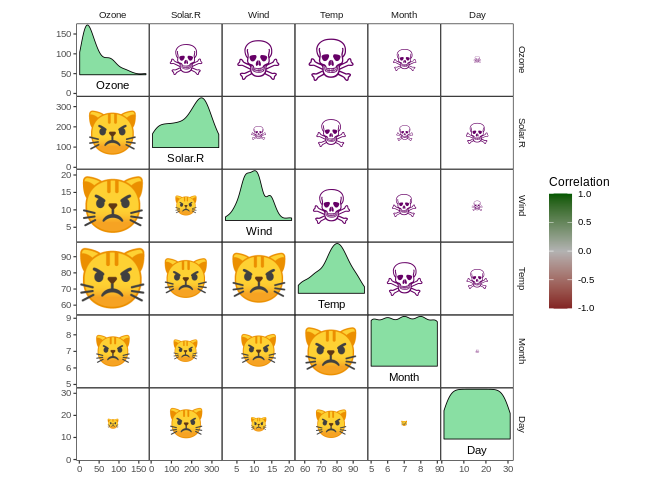
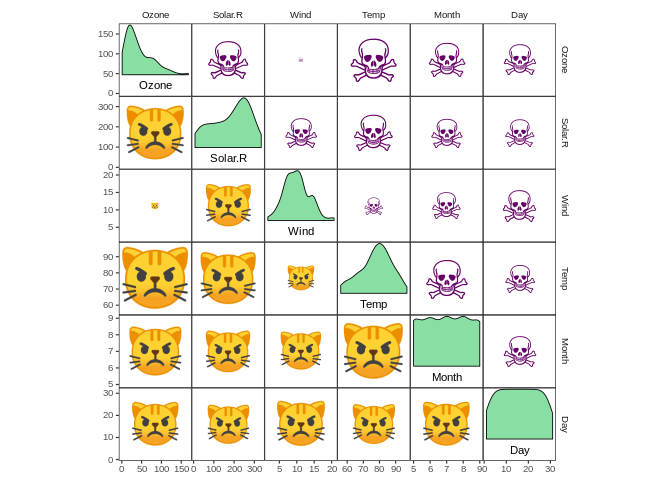
Update README file (remove color bar for cat skull plot)

diff --git a/README.md b/README.md
@@ -165,8 +165,6 @@ ggcorrm(data1,
   scale_color_corr(aesthetics = c("fill", "color"))
 ```
 
-    ## Joining, by = "pos"
-
     ## `geom_smooth()` using formula 'y ~ x'
 
 ![](README_files/figure-gfm/unnamed-chunk-8-1.png)<!-- -->
@@ -195,13 +193,13 @@ ggcorrm(rescale = "by_sd") +
 
 With `lotri_/utri_heatpoint()`, you can scale the diameter of any
 character you want by correlation strength. And yes, you’re right, this
-means you can display correlation strength with purple skulls and angry
-cat faces (at least if your graphical device allows Unicode characters,
-which might or might not work on Windows):
+means you can display correlation strength by the size of purple skulls
+and angry cat faces (at least if your graphical device allows Unicode
+characters, which might or might not work on Windows):
 
 ``` r
 airquality %>% 
-ggcorrm(aes(col = .corr)) +
+ggcorrm() +
   lotri_heatpoint(pch = "\U1F63E") +
   utri_heatpoint(pch = "\U2620", col = "#660066") +
   dia_names(y_pos = 0.15, size = 3) +
